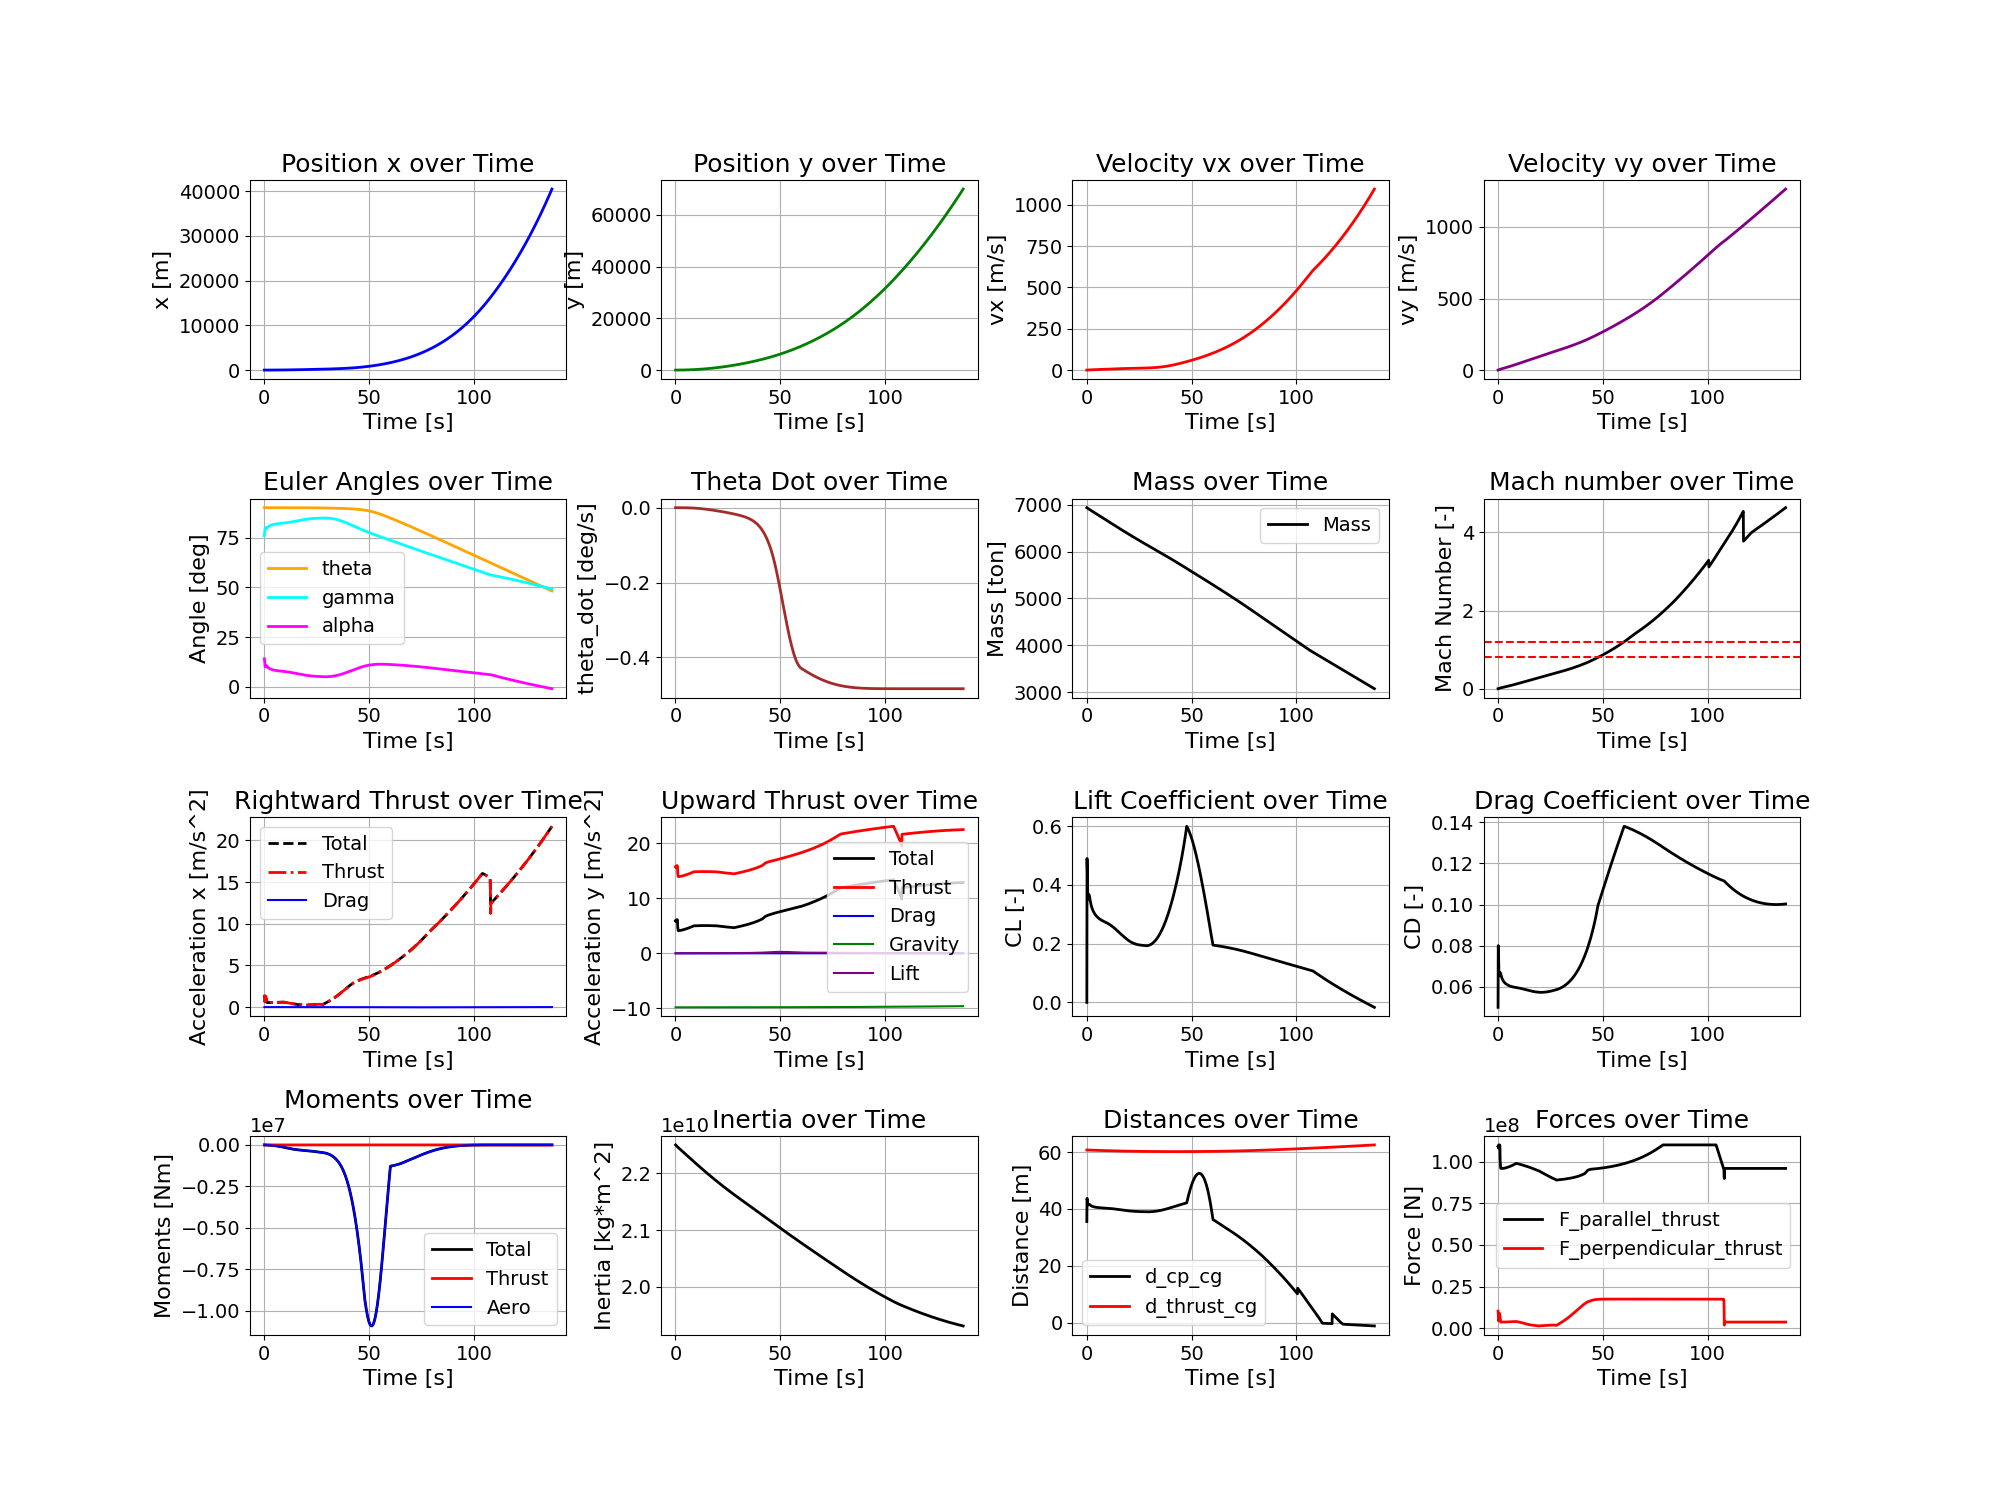
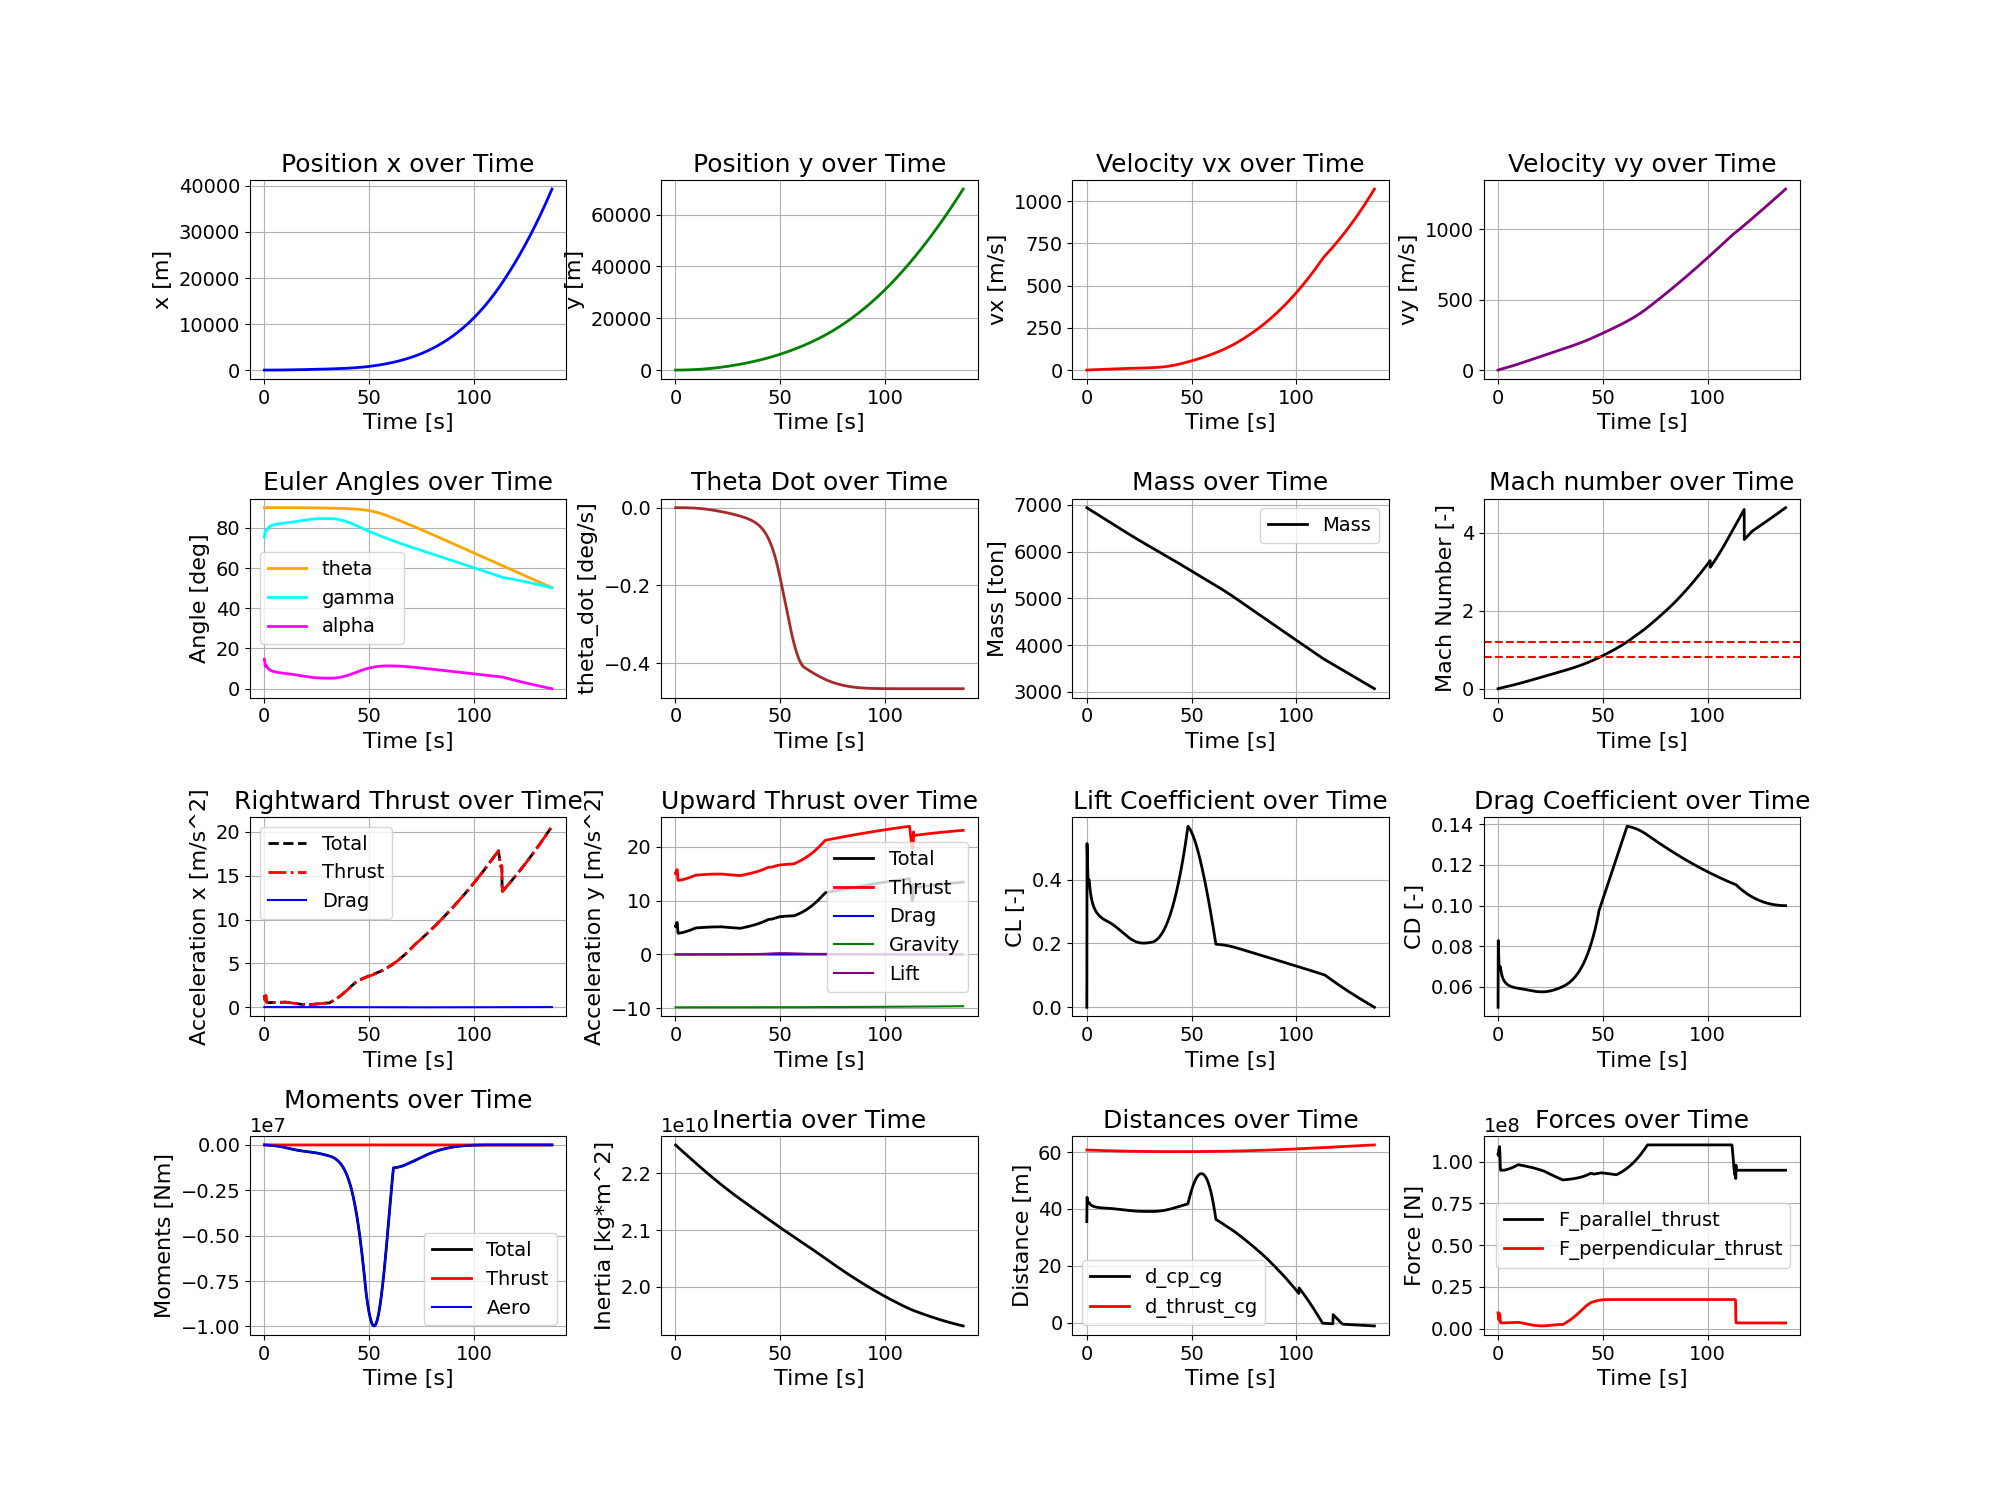
20mins to this

diff --git a/src/envs/env_endo/init_vertical_rising.py b/src/envs/env_endo/init_vertical_rising.py
@@ -76,7 +76,8 @@ def reward_func(state, done, truncated, reference_trajectory_func, final_referen
 
     # Truncated function
     if truncated:
-        reward -= abs(final_reference_time - time) *5#/ 60 * 5
+        if time < final_reference_time:
+            reward -= abs(final_reference_time - time) *5#/ 60 * 5
         if time < 5:
             reward -= 50#0.5
         if time < 11:
@@ -99,7 +100,7 @@ def reward_func(state, done, truncated, reference_trajectory_func, final_referen
             reward += 10000
         if time > 110:
             reward += 10000
-        if time > 120:
+        if time > 118:
             reward += 10000
 
     # Done function
@@ -132,7 +133,7 @@ def truncated_func(state, reference_trajectory_func, final_reference_time):
     if mass_propellant <= 0:
         return True
     # Now check if time is greater than final_reference_time + 10 seconds
-    elif time > final_reference_time + 10:
+    elif time > final_reference_time:
         return True
     # Now check if error_y is greater than 2000m for up to 6000m, then 4000m up to 20000m
     elif y < 6000 and (error_y > 2000 or error_x > 200):
